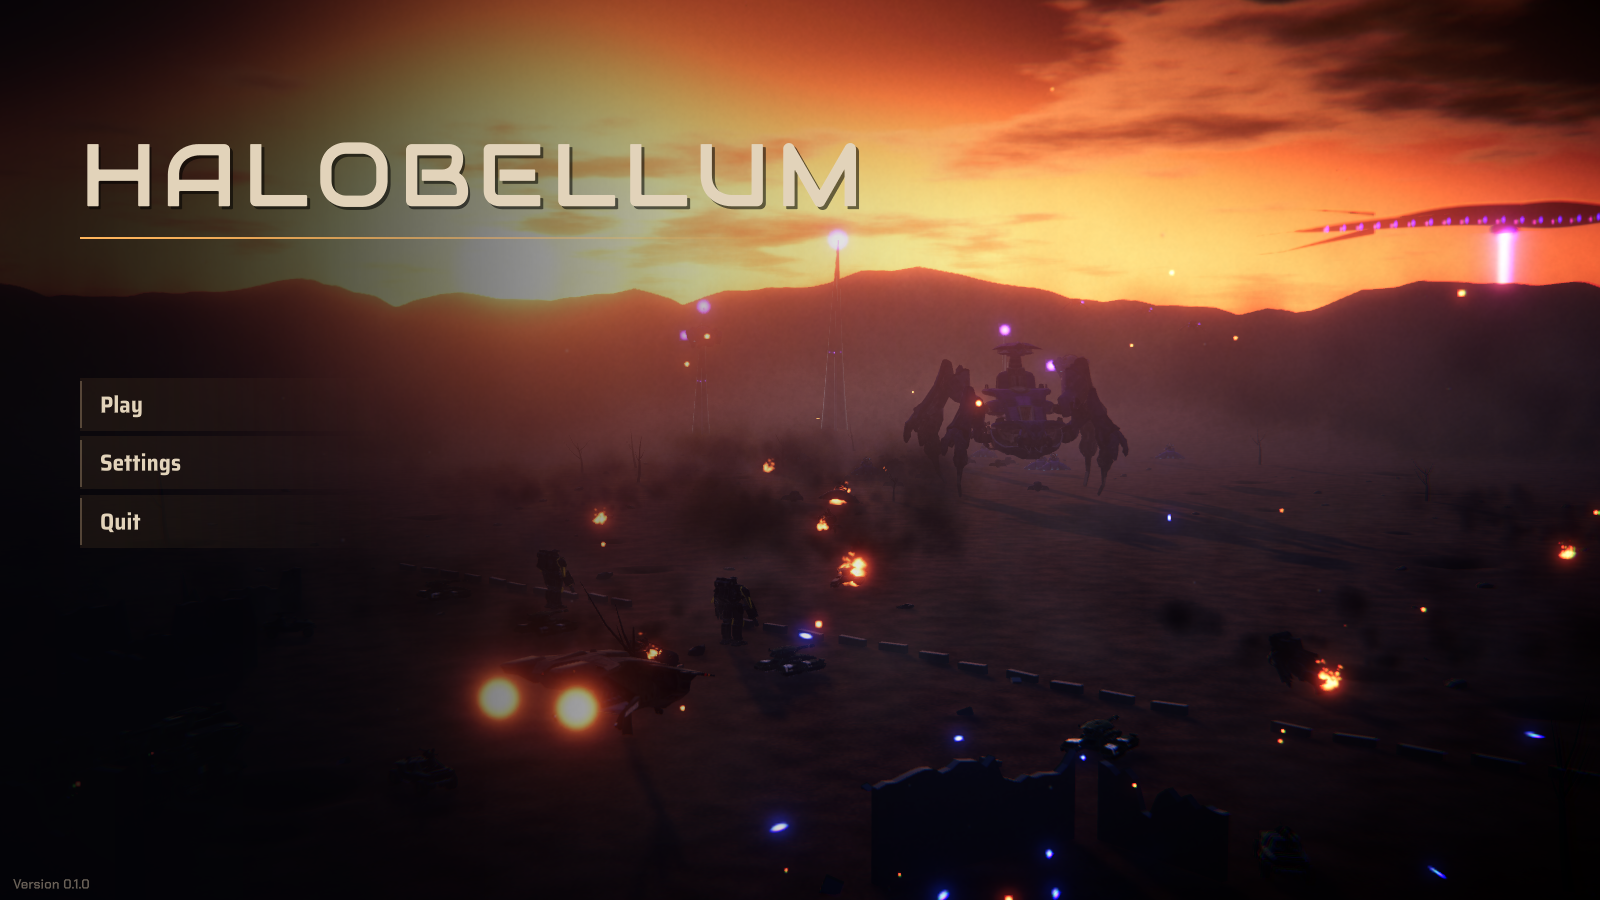
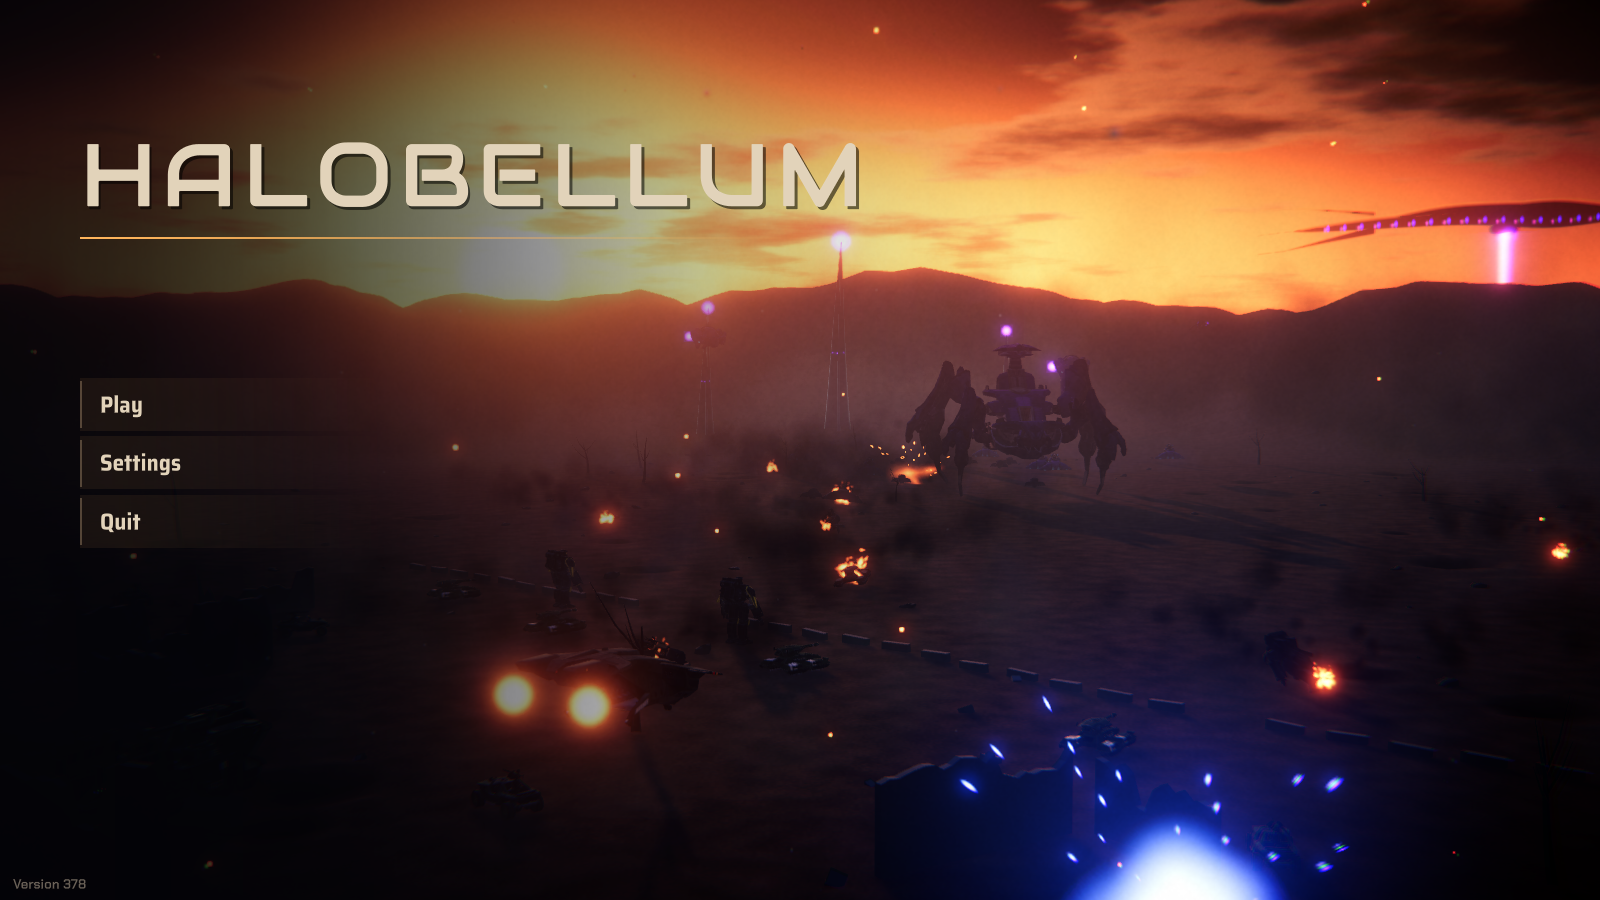
The menu's music waits until the disclaimer is clicked away, which plays a button's click; the version on the menu is the build number, the count of commits on main, stamped by PlayerBuildTool from -buildNumber (unity.sh passes it) or Git, the project's version setting put back after (D101); a test

diff --git a/Assets/_Project/Scripts/Editor/PlayerBuildTool.cs b/Assets/_Project/Scripts/Editor/PlayerBuildTool.cs
@@ -7,6 +7,9 @@
 // (see MatchAutoplay). A normal build starts in the main menu; the test tools skip it (see GameFlow).
 // With -testBuild its product name is "Halobellum Test". Unity keeps PlayerPrefs, and the window it remembers, under the product's name, so that nothing a run of that
 // build does can reach the player's own settings and window. Only the build differs: the project's name goes back afterward.
+// The build's version is its build number (the owner, D101): how many commits main has, so it goes up with every change pushed. It comes from
+// -buildNumber N (the build script passes it, as its copy of the project has no Git), or else from Git in the project's own folder; it is the
+// version only for the build (Application.version, shown on the main menu), and the project's version setting goes back afterward.
 // Depends on: BattleSceneBuilder (scene path), UnityEditor.
 
 using System;
@@ -27,8 +30,11 @@ namespace Halobellum.EditorTools
                 int index = Array.IndexOf(args, "-buildOutput");
                 if (index < 0 || index + 1 >= args.Length) throw new ArgumentException("Pass -buildOutput <path to .exe>.");
 
-                string product = PlayerSettings.productName;
+                string product = PlayerSettings.productName, version = PlayerSettings.bundleVersion;
                 if (Array.IndexOf(args, "-testBuild") >= 0) PlayerSettings.productName = product + " Test";
+                string number = BuildNumber(args);
+                if (number != null) PlayerSettings.bundleVersion = number;
+                Debug.Log("Build number: " + (number ?? "none, version " + version));
                 BuildReport report;
                 try
                 {
@@ -45,6 +51,7 @@ namespace Halobellum.EditorTools
                 finally
                 {
                     PlayerSettings.productName = product;
+                    PlayerSettings.bundleVersion = version;
                 }
                 Debug.Log($"Build {report.summary.result}: {report.summary.outputPath}, {report.summary.totalSize / (1024 * 1024)} MB, {report.summary.totalErrors} errors.");
                 if (report.summary.result == BuildResult.Succeeded) exitCode = 0;
@@ -54,6 +61,34 @@ namespace Halobellum.EditorTools
                 Debug.LogError("Player build failed: " + e);
             }
             EditorApplication.Exit(exitCode);
+        }
+
+        /// <summary>The build's number: -buildNumber N, or how many commits Git counts in the project's folder, or null if neither is there.</summary>
+        public static string BuildNumber(string[] args)
+        {
+            int at = Array.IndexOf(args, "-buildNumber");
+            if (at >= 0 && at + 1 < args.Length && int.TryParse(args[at + 1], out int given) && given > 0) return given.ToString();
+            try
+            {
+                var start = new System.Diagnostics.ProcessStartInfo("git", "rev-list --count HEAD")
+                {
+                    WorkingDirectory = System.IO.Path.GetFullPath(System.IO.Path.Combine(Application.dataPath, "..")),
+                    RedirectStandardOutput = true,
+                    RedirectStandardError = true,
+                    UseShellExecute = false,
+                    CreateNoWindow = true,
+                };
+                using (var git = System.Diagnostics.Process.Start(start))
+                {
+                    string output = git.StandardOutput.ReadToEnd().Trim();
+                    git.WaitForExit(10000);
+                    return git.ExitCode == 0 && int.TryParse(output, out int count) && count > 0 ? count.ToString() : null;
+                }
+            }
+            catch (Exception)
+            {
+                return null; // No Git here.
+            }
         }
     }
 }

diff --git a/Assets/_Project/Scripts/UI/Menu/MainMenuHud.cs b/Assets/_Project/Scripts/UI/Menu/MainMenuHud.cs
@@ -1,7 +1,8 @@
 // MainMenuHud.cs
 // The main menu's screen (M10), in the MainMenu scene over MenuBackdrop's picture: the title, and two pages of buttons. The first has Play, Settings and Quit.
 // Play's page has Faction mode, Unlock Skirmish mode, Sandbox and Back: a chosen mode shows a panel on the right with its settings and Start, and the Sandbox leaves at once.
-// The first time it shows after the game starts, the owner's disclaimer (Disclaimer, D96) comes first, and the menu fades in once it is clicked away.
+// The first time it shows after the game starts, the owner's disclaimer (Disclaimer, D96) comes first, and the menu fades in once it is clicked away,
+// with a button's click and only then the menu's music (D101).
 // Its version is in small print in the lower left (D100). It fades in from black and fades out before a scene change. Esc steps back: the card list, then Play's page, and it closes Settings. It scales to any window (HudScale.ApplyFit).
 // Difficulty and base health are remembered (GameSettings). The card filter starts at All cards each time this screen loads, and no mode is chosen.
 // The buttons call plain public methods, which a batch run's tests can call too, since a batch run draws no IMGUI.
@@ -133,7 +134,23 @@ namespace Halobellum.UI
             return true;
         }
 
+        // The disclaimer holds the menu's music back until it is clicked away (the owner, D101). Awake comes before the scene's music is chosen.
+        private void Awake()
+        {
+            if (Disclaimer.Pending) AudioDirector.HoldMenuMusic = true;
+        }
+
         private void Start() => _shownAt = Time.unscaledTime;
+
+        /// <summary>The disclaimer clicked away: a button's click, the menu's music, and the menu fading in from the black.</summary>
+        private void PastDisclaimer()
+        {
+            Disclaimer.Pending = false;
+            _shownAt = Time.unscaledTime;
+            UiAudio.Click();
+            if (AudioDirector.Instance != null) AudioDirector.Instance.ReleaseMenuMusic();
+            else AudioDirector.HoldMenuMusic = false;
+        }
 
         private float _pictureAt = -1f;
 
@@ -172,8 +189,7 @@ namespace Halobellum.UI
 
         private void GoOnForPicture()
         {
-            Disclaimer.Pending = false;
-            _shownAt = Time.unscaledTime;
+            PastDisclaimer();
             Invoke(nameof(MenuPicture), FadeInSeconds + 1.5f);
         }
 
@@ -214,11 +230,7 @@ namespace Halobellum.UI
 
             if (Disclaimer.Pending)
             {
-                if (Disclaimer.Draw(width, height))
-                {
-                    Disclaimer.Pending = false;
-                    _shownAt = Time.unscaledTime; // The menu fades in from the black.
-                }
+                if (Disclaimer.Draw(width, height)) PastDisclaimer();
                 return;
             }
             if (_showSettings)

diff --git a/Assets/_Project/Scripts/Combat/Presentation/Audio/AudioDirector.cs b/Assets/_Project/Scripts/Combat/Presentation/Audio/AudioDirector.cs
@@ -220,13 +220,23 @@ namespace Halobellum.Presentation
             HandleScene(scene.name);
         }
 
+        /// <summary>True while something shown before the main menu holds its music back (the owner's disclaimer, D101). Set before the menu's scene is handled.</summary>
+        public static bool HoldMenuMusic { get; set; }
+
+        /// <summary>Lets the main menu's music start, once what held it back has gone (D101).</summary>
+        public void ReleaseMenuMusic()
+        {
+            HoldMenuMusic = false;
+            if (Music.CurrentSlot != AudioSlots.MainMenuMusic) Music.Play(AudioSlots.MainMenuMusic);
+        }
+
         /// <summary>Connects to what is in a scene and decides on its music.</summary>
         public void HandleScene(string sceneName)
         {
             if (sceneName == AudioSlots.MainMenuScene || GameFlow.IsMainMenu(sceneName))
             {
                 UiFaction = null;
-                Music.Play(AudioSlots.MainMenuMusic);
+                if (!HoldMenuMusic) Music.Play(AudioSlots.MainMenuMusic);
                 return;
             }
 

diff --git a/Assets/Tests/EditMode/Unity/DisclaimerTests.cs b/Assets/Tests/EditMode/Unity/DisclaimerTests.cs
@@ -29,6 +29,14 @@ namespace Halobellum.Tests
         [Test]
         public void TheMenu_ShowsItsVersion() => Assert.AreEqual("Version " + UnityEngine.Application.version, MainMenuHud.VersionLabel);
 
+        [Test]
+        public void ABuildsVersion_IsItsBuildNumber_GivenOrCountedByGit()
+        {
+            Assert.AreEqual("378", Halobellum.EditorTools.PlayerBuildTool.BuildNumber(new[] { "-buildOutput", "x.exe", "-buildNumber", "378" }));
+            string counted = Halobellum.EditorTools.PlayerBuildTool.BuildNumber(new string[0]);
+            if (counted != null) Assert.Greater(int.Parse(counted), 0, "In a Git checkout, the commits are counted.");
+        }
+
         [TestCase(false, new string[0], true)]
         [TestCase(false, new[] { "-screen-width", "1600" }, true)]
         [TestCase(true, new string[0], false)]

diff --git a/DECISIONS.md b/DECISIONS.md
@@ -101,3 +101,4 @@ Agents record here any design question, interpretation, or proposed change that 
 | D95 | 2026-11-07 | **Asked by the owner**: the tournament after the animations; no change needed | The Hard AI tournament after D88 to D93: every sub-faction 48% to 52% | After the Grenadier's blade (D88), the Captain's laser beam (D91) and the animations (D90, D92, D93): the counter web measured again for the two units whose weapons changed (Brute Grenadier, Hunter Captain), the AI's matchup table rebuilt from it, the data exported and two rounds of the Hard AI tournament played at 2000 base health (seeds 0 and 1, 7,200 matches, 15 threads, about 8 minutes each). **Sub-factions:** Banished 52%, Noble 51%, Unggoy Rebellion 51%, Aerospace Command 50%, Covenant-based 50%, Lekgolo Colony 49%, Armored Division 49%, UNSC-based 48% (good to about 3 points); factions Covenant 51%, UNSC 50%, Flood 49%. All inside 46 to 54, so no price or unit was changed. **Seen, not changed:** the AI rarely fields the Stalker Form (under 1% of matches), the Infected Pelican (1%) and the Spartan CQB (3%), so their numbers say little; the Glassing Beam (edge -16) and Gravemind's Wrath (-20) go with losing sides, though late cards mostly go to sides already behind (morning items 158 and 159). Report: `Docs/Balance/hard_ai_tournament_d95.txt`. |
 | D96 | 2026-11-07 | **Asked by the owner** | The owner's disclaimer before the main menu | The first time the main menu shows after the game starts, the owner's disclaimer comes first, in the owner's words: white text on black, centred (the title, then Unofficial Fan Project, AI-Assisted Development, Independent Project, Public Availability, the thanks, Created by Miker, and the link to Microsoft's Game Content Usage Rules), with a glowing, pulsing "Click anywhere to continue" at the bottom. A click or a key goes on, and the menu fades in from the black; clicking the link opens it in the browser instead. The text shrinks to fit any window. It isn't shown again until the game is started again, nor in batch runs (tests) or picture runs; `-disclaimerPicture <png>` shows it, saves a picture and quits (`UI/Menu/Disclaimer.cs`, `MainMenuHud`). Picture: `Docs/M10/disclaimer_d96.png`. |
 | D100 | 2026-11-07 | **Asked by the owner** | The disclaimer's request not to share, HALOBELLUM in the menu's title font, the version on the menu | **Disclaimer (D96):** Public Availability ends with the owner's words: "Please do not publicly share screenshots, recordings, gameplay videos, download links or game files without permission. The less attention this unofficial project attracts, the better its chances of remaining available." Its title is now "WELCOME TO" over HALOBELLUM written as the main menu writes it: the menu title's font and cream ink, letter-spaced, with the accent line under it. **Main menu:** the version (Unity's Player Settings version, now 0.1.0) in small print in the lower left, "Version 0.1.0" (`MainMenuHud.VersionLabel`). `-disclaimerPicture` now also takes a picture of the menu once it has faded in. Pictures: `Docs/M10/disclaimer_d96.png`, `Docs/M10/menu_version_d100.png`. D97 to D99 are the other session's. |
+| D101 | 2026-11-07 | **Asked by the owner** | The menu's music waits for the disclaimer; the version is the build number | **Music:** while the disclaimer (D96) shows, the main menu's music doesn't start (`AudioDirector.HoldMenuMusic`, set by the menu before its scene's music is chosen); clicking it away plays the menu's button click (`ui_click`, the owner's `UI buttons`) and then starts the music, as the menu fades in. **Version:** the version on the main menu (D100) is now the build's number: how many commits main has when the game is built, so it goes up with every change pushed (Git counts commits, not pushes; each push carries one or more). `PlayerBuildTool` makes it the build's version and puts the project's own version setting back afterward; it comes from `-buildNumber N`, which `unity.sh` now passes for build and gamebuild, or else from Git in the project's folder (the owner's own checkout). The editor still shows the project setting, 0.1.0. |

diff --git a/DAILY_REPORT.md b/DAILY_REPORT.md
@@ -2,6 +2,11 @@
 
 Earlier reports are in this file's Git history. **M10 is built and merged**, and the Infected Pelican now dives. It is waiting for your play test. **Start with `MORNING_DECISIONS.md`.** It lists every choice I made for you.
 
+## The menu's music after the disclaimer, and the build number (D101)
+- **In the game:** the menu's music starts only once you click the disclaimer away, with the same click as a menu button. The version in the lower left is now the build number: how many commits main has when the game is built (it goes up with every change pushed).
+- **Checked:** the disclaimer, menu and audio tests, a new one for the build number; a test build's menu picture.
+- **Not checked:** the music's start heard by hand.
+
 ## The disclaimer's addition and the version (D100)
 - **In the game:** Public Availability ends with your request not to share the game publicly; HALOBELLUM on the disclaimer is in the main menu's title font and colour; the main menu shows "Version 0.1.0" small in the lower left.
 - **Checked:** the disclaimer and menu tests; pictures of the disclaimer at 1600x900 and 1024x768 and of the menu (`Docs/M10/menu_version_d100.png`).

diff --git a/PROJECT_BIBLE.md b/PROJECT_BIBLE.md
@@ -545,6 +545,7 @@ Complete in order. A milestone is done only when every criterion passes and the 
 | 2026-11-07 | The main menu is a cinematic battlefield of the three sides' vehicles (no soldiers or Flood forms) in five fading camera shots; the old menu stays as Classic, chosen in Settings | Per the project owner (D94) |
 | 2026-11-07 | The owner's disclaimer shows once each time the game starts, before the main menu | Per the project owner (D96) |
 | 2026-11-07 | The disclaimer asks players not to share the game publicly and writes HALOBELLUM as the menu does; the menu shows the version | Per the project owner (D100) |
+| 2026-11-07 | The menu's music starts only once the disclaimer is clicked away, with a button's click; the version shown is the build number (commits on main) | Per the project owner (D101) |
 
 ## 18. Assumptions to confirm
 

diff --git a/PROGRESS.md b/PROGRESS.md
@@ -180,6 +180,7 @@ Asked for by the owner as one overnight job. Built in parallel, then merged and 
 - [x] Hard AI tournament after the animations: every sub-faction 48% to 52%, no change (D95)
 - [x] The owner's disclaimer before the main menu (D96)
 - [x] The disclaimer's request not to share, HALOBELLUM in the menu's font, the version on the menu (D100)
+- [x] The menu's music waits for the disclaimer, a click as it goes; the version is the build number (D101)
 - [ ] Models for the remaining units (see Assets_to_Download.md)
 - [ ] The owner's play test of M10
 
